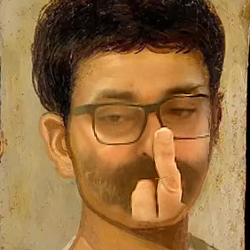
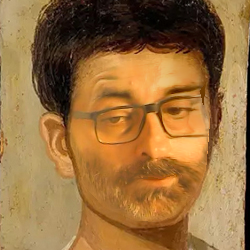
better cc shift

Changed region(s): [[0.28, 0.224, 0.868, 0.896], [0.308, 0.56, 0.336, 0.588]]

diff --git a/faceFit/FaceFit_kivy_overimpressed.py b/faceFit/FaceFit_kivy_overimpressed.py
@@ -24,7 +24,9 @@ from kivy.uix.behaviors import ToggleButtonBehavior
 from kivy.clock import Clock
 from kivy.graphics.texture import Texture
 from color_transfer import color_transfer
+import blend_modes
 
+from skimage import filters as filters, exposure
 Window.maximize()
 # Mediapipe
 mp_face_detection = mp.solutions.face_detection
@@ -685,187 +687,6 @@ def where_is_looking(img, f_landmarks, what):
     return [text, beta, alpha]
 
 
-# def txt_multiline(img, end_point, increment, txt, color):
-#     y_start = (end_point[1] - 25)
-#     y_increment = increment[1]
-#     for i, line in enumerate(txt.split('\n')):
-#         y = y_start + i * y_increment
-#         cv2.putText(img, line, ((end_point[0] + increment[0]), y), font, 1, color, 2)
-
-
-# def rotate_hud(origin, point, _angle):
-#     """
-#     Rotate a point counterclockwise by a given angle around a given origin.
-#     The angle should be given in radians.
-#     """
-#     ox, oy = origin
-#     px, py = point
-#
-#     qx = ox + np.cos(_angle) * (px - ox) - np.sin(_angle) * (py - oy)
-#     qy = oy + np.sin(_angle) * (px - ox) + np.cos(_angle) * (py - oy)
-#     return int(qx), int(qy)
-# def draw_hud(img, center_point, b_box, up_down, r_l, turn_z, ref_id):
-#     hud = np.zeros_like(img, np.uint8)
-#     j_arrow = [int(i * 1.3) for i in b_box]
-#     color = (0, 255, 0)
-#     thick = 10
-#     thick_tilt = 10
-#     x = center_point[0]
-#     y = center_point[1] - b_box[1]
-#     a = 25
-#     b = 35
-#     sector = 0
-#
-#     # BIG ARROW
-#     if r_l == 'right':
-#         if up_down == 'up':
-#             angle = 45
-#             sector = 1
-#         elif up_down == 'down':
-#             angle = 135
-#             sector = 2
-#         else:
-#             angle= 90
-#             sector = 2
-#     elif r_l == 'left':
-#         if up_down == 'up':
-#             angle = -45
-#             sector = 1
-#         elif up_down == 'down':
-#             angle = -135
-#             sector = 2
-#         else:
-#             angle = -90
-#             sector = 2
-#     else:
-#         if up_down == 'up':
-#             angle = 0
-#             sector = 1
-#         elif up_down == 'down':
-#             angle = 180
-#             sector = 2
-#         else:
-#             sector = 1
-#             angle = 0
-#             x = -200
-#             y = -300
-#     big_arrow = np.array([(x, y), (x - a, y), (x - a, y - b), (x - 2 * a, y - b), (x, y - 2 * b), (x + 2 * a, y - b),
-#                       (x + a, y - b), (x + a, y)], np.float32)
-#     arrow_rotated = big_arrow.copy()
-#
-#     for i, p in enumerate(big_arrow):
-#         arrow_rotated[i] = rotate_hud(center_point, p, np.deg2rad(angle))
-#
-#     cv2.polylines(hud, [np.int32(arrow_rotated)], True, color, thick)
-#
-#     # TILT
-#     if turn_z == 'right':
-#         if sector != 2:
-#             alpha = 100
-#             beta = 170
-#             tilt_p1 = [center_point[0] - j_arrow[0], center_point[1] + 10]
-#             tilt_p2 = [center_point[0] - j_arrow[0] - 10, center_point[1] + 25]
-#             tilt_p3 = [center_point[0] - j_arrow[0] + 15, center_point[1] + 20]
-#         else:
-#             alpha = 190
-#             beta = 260
-#             tilt_p1 = [center_point[0] - 5, center_point[1] - j_arrow[1]-1]
-#             tilt_p2 = [center_point[0] - 20, center_point[1] - j_arrow[1]-10]
-#             tilt_p3 = [center_point[0] - 15, center_point[1] - j_arrow[1]+15]
-#     elif turn_z == 'left':
-#         if sector != 2:
-#             alpha = 10
-#             beta = 80
-#             tilt_p1 = [center_point[0] + j_arrow[0], center_point[1] + 10]
-#             tilt_p2 = [center_point[0] + j_arrow[0] + 10, center_point[1] + 25]
-#             tilt_p3 = [center_point[0] + j_arrow[0] - 15, center_point[1] + 20]
-#         else:
-#             alpha = 280
-#             beta = 350
-#             tilt_p1 = [center_point[0] + 5, center_point[1] - j_arrow[1]-1]
-#             tilt_p2 = [center_point[0] + 20, center_point[1] - j_arrow[1]-10]
-#             tilt_p3 = [center_point[0] + 15, center_point[1] - j_arrow[1]+15]
-#     else:
-#         alpha = 0
-#         beta = 0
-#         tilt_p1 = [-300, -300]
-#         tilt_p2 = [-300, -300]
-#         tilt_p3 = [-300, -300]
-#         thick_tilt = 0
-#     cv2.ellipse(hud, center_point, j_arrow, 0, alpha, beta, color, thick_tilt)
-#     pts0 = np.array([tilt_p1, tilt_p2, tilt_p3], np.int32)
-#     pts0 = pts0.reshape((-1, 1, 2))
-#     cv2.polylines(hud, [pts0], True, color, thick_tilt)
-#
-#     # L Eye
-#
-#     if ref[ref_id].status['l_e'] != cam_obj.status['l_e']:
-#         l_e_start = cam_obj.centers['l_e']
-#         l_e_end = (cam_obj.centers['l_e'][0] + j_arrow[0]//2, cam_obj.centers['l_e'][1] - j_arrow[1])
-#         txt_l = "check\nleft\neye"
-#     else:
-#         l_e_start = (-300, -300)
-#         l_e_end = (-300, -300)
-#         txt_l = ""
-#     cv2.line(hud, l_e_start, l_e_end, color, 2)
-#     txt_multiline(hud, l_e_end, [5, 25], txt_l, color)
-#
-#     # R Eye
-#     if ref[ref_id].status['r_e'] != cam_obj.status['r_e']:
-#         r_e_start = cam_obj.centers['r_e']
-#         r_e_end = (cam_obj.centers['r_e'][0] - j_arrow[0]//2, cam_obj.centers['r_e'][1] - j_arrow[1])
-#         txt_r = "check\n right\n  eye"
-#     else:
-#         r_e_start = (-300, -300)
-#         r_e_end = (-300, -300)
-#         txt_r = ""
-#     cv2.line(hud, r_e_start, r_e_end, color, 2)
-#     txt_multiline(hud, r_e_end, [-95, 25], txt_r, color)
-#
-#     # Mouth
-#     if ref[ref_id].status['lips'] != cam_obj.status['lips']:
-#         mouth_start = cam_obj.centers['lips']
-#         mouth_end = (cam_obj.centers['lips'][0] - 100), (cam_obj.centers['lips'][1] + 125)
-#         txt_mouth = "check mouth"
-#     else:
-#         mouth_start = (-300, -300)
-#         mouth_end = (-300, -300)
-#         txt_mouth = ""
-#     cv2.line(hud, mouth_start, mouth_end, color, 2)
-#     cv2.putText(hud, txt_mouth, ((mouth_end[0] - 100), (mouth_end[1] + 20)), font, 1, color, 2)
-#     d = 20
-#     # ref[selected].image = cv2.cvtColor(ref[selected].image, cv2.COLOR_BGR2RGB)
-#     temp_ref = ref[selected].image.copy()
-#     rx = (cam_obj.delta_x + 2 * d) / (ref[selected].delta_x + 2 * d)
-#     ry = (cam_obj.delta_y + 2 * d) / (ref[selected].delta_y + 2 * d)
-#     media_scale = round((rx + ry) / 2, 2)
-#     r_min_x, r_min_y = ref[selected].bb_p1
-#     r_max_x, r_max_y = ref[selected].bb_p2
-#     center_ref = ref[selected].pix_points[168]
-#     center_cam = cam_obj.pix_points[168]
-#     delta_r_min = [r_min_x - d, r_min_y - d]
-#     delta_r_max = [r_max_x + d, r_max_y + d]
-#     cropped_ref = temp_ref[delta_r_min[1]:delta_r_max[1], delta_r_min[0]:delta_r_max[0]]
-#     print(center_cam, center_ref, delta_r_min, delta_r_max)
-#     print(r_max_y-r_min_y+2*d, r_max_x-r_min_x+2*d, 'picture')
-#     # print('rx', rx, 'ry', ry, 'media', media_scale)
-#     new_min_x = center_cam[0] - int((center_ref[0] - delta_r_min[0]) )
-#     new_min_y = center_cam[1] - int((center_ref[1] - delta_r_min[1]) )
-#     new_max_x = center_cam[0] - int((center_ref[0] - delta_r_max[0]) )
-#     new_max_y = center_cam[1] - int((center_ref[1] - delta_r_max[1]) )
-#     print(new_min_x, new_max_x, new_min_y, new_max_y )
-#     print(selected)
-#     temp_cam = img.copy()
-#     # print(exp_bb_reference.shape, exp_bb_cam.shape, img.shape)
-#     print(temp_cam[new_min_y:new_max_y, new_min_x:new_max_x].shape, cropped_ref.shape)
-#     temp_cam[new_min_y:new_max_y, new_min_x:new_max_x] = \
-#         cv2.addWeighted(temp_cam[new_min_y:new_max_y, new_min_x:new_max_x], 1, cropped_ref, .9, 1)
-#     mask = hud.astype(bool)
-#     # print(new_max_x - new_min_x, new_max_y - new_min_y, cropped_ref.shape)
-#     out_image = temp_cam.copy()
-#     # out_image = cv2.addWeighted(img, 1, exp_bb_cam, 0.7, 1)
-#     out_image[mask] = cv2.addWeighted(img, 1, hud, 0.9, 1)[mask]
-#     return out_image
 
 
 # def draw(part, img, face_l):
@@ -911,9 +732,6 @@ def hud_mask(mask_obj, masked_obj):
 
     mask = np.zeros(masked_obj.image.shape, dtype=masked_obj.image.dtype)
     cv2.fillConvexPoly(mask, np.int32(hull8U), (255, 255, 255))
-    # print('qua')
-    # cv2.imshow('',mask)
-    # cv2.waitKey(1)
     return mask
 
 
@@ -964,15 +782,8 @@ def cut_paste(obj1, obj2):
     cropped_2 = masked_2[delta_2_min[1]:delta_2_max[1], delta_2_min[0]:delta_2_max[0]]
 
     cropped_2 = cv2.resize(cropped_2,((new_max_x - new_min_x),(new_max_y - new_min_y)),interpolation=cv2.INTER_LINEAR)
-    blurred_2 = cv2.GaussianBlur(cropped_2, (3,3), sigmaX=0, sigmaY=0)
-    # Sobel Edge Detection
-    print(blurred_2.shape, blurred_2.dtype, cropped_2.shape, cropped_2.dtype)
-    sobel_x = cv2.Sobel(src=blurred_2, ddepth=cv2.CV_64F, dx=1, dy=0, ksize=3)  # Sobel Edge Detection on the X axis
-    sobel_y = cv2.Sobel(src=blurred_2, ddepth=cv2.CV_64F, dx=0, dy=1, ksize=3)  # Sobel Edge Detection on the Y axis
-    # sobelxy = cv2.Sobel(src=blurred_2, ddepth=cv2.CV_64F, dx=1, dy=1, ksize=5)  # Combined X and Y Sobel Edge Detection
-    abs_grad_x = cv2.convertScaleAbs(sobel_x)
-    abs_grad_y = cv2.convertScaleAbs(sobel_y)
-    edged_2 = cv2.addWeighted(abs_grad_x, 0.5, abs_grad_y, 0.5, 0)
+
+    edged_2 = find_edges(cropped_2, 3, 1, 1, 3)
 
     copied = temp_1[new_min_y:new_max_y, new_min_x:new_max_x]
     copied = cv2.addWeighted(copied, 1, edged_2, .99, 1)
@@ -984,17 +795,24 @@ def morph(c_obj, r_obj):
     source = ref[selected].image
     target = cam_obj.image
 
-    # transfer the color distribution from the source image to the target image
-    color_transfer(source, target, clip=False, preserve_paper=False)
-
     img1_warped = np.copy(r_obj.image)
     img1_points = c_obj.pix_points
     img2_points = r_obj.pix_points
-    convexhull2 = cv2.convexHull(np.array(img2_points))
+
     mask = hud_mask(c_obj, r_obj)
     # Find Centroid
     mid = cv2.moments(mask[:, :, 1])
     center = (int(mid['m10']/mid['m00']), int(mid['m01']/mid['m00']))
+
+    cc_image = cv2.cvtColor(color_correct(target, source), cv2.COLOR_BGRA2BGR)
+
+    cv2.imshow('match3', cc_image)
+    print(cc_image.shape, cc_image.dtype)
+    c_obj.image[c_obj.bb_p1[1]:c_obj.bb_p2[1], c_obj.bb_p1[0]:c_obj.bb_p2[0]] = cc_image
+    cv2.imshow('match4', c_obj.image)
+    # # find edges
+    # edged = find_edges(c_obj.image, 3, 1, 1, 3)
+    # c_obj.image = cv2.addWeighted(c_obj.image, 1, edged, 0.5, 0)
 
     # triangles
     dt = media_pipes_tris
@@ -1003,7 +821,9 @@ def morph(c_obj, r_obj):
     img2_new_face = np.zeros((height, width, channels), np.uint8)
     convexhull1 = cv2.convexHull(np.array(img1_points))
     cv2.fillConvexPoly(mask, convexhull1, 255)
+    convexhull2 = cv2.convexHull(np.array(img2_points))
     # If no Delaunay Triangles were found, quit
+
     if len(dt) == 0:
         quit()
 
@@ -1022,10 +842,18 @@ def morph(c_obj, r_obj):
         warp_triangle(c_obj.image, img2_new_face, tris1[i], tris2[i])
 
     # Clone seamlessly.
-    # kernel = np.array([[0, -1, 0],
-    #                    [-1, 5, -1],
-    #                    [0, -1, 0]])
+    # find edges
+    # edged = find_edges(img2_new_face, 3, 1, 1, 3)
+
+    # # add_sharpness
+    # kernel = np.array([[-1, -1, -1],
+    #                    [-1, 9, -1],
+    #                    [-1, -1, -1]])
     # img2_sharp = cv2.filter2D(src=img2_new_face, ddepth=-1, kernel=kernel)
+    # img2_new_face = cv2.addWeighted(img2_new_face, 1, img2_sharp, 0.1, 1)
+    # cv2.imshow('0', edged)
+    # cv2.imshow('1', img2_sharp)
+    # cv2.waitKey(0)
     gray = cv2.cvtColor(r_obj.image, cv2.COLOR_BGR2GRAY)
     img2_face_mask = np.zeros_like(gray)
 
@@ -1048,6 +876,70 @@ def extract_index_nparray(nparray):
         index = num
         break
     return index
+
+
+def find_edges(img, blur_size, dx , dy, ksize):
+    blurred = cv2.GaussianBlur(img, (blur_size, blur_size), sigmaX=0, sigmaY=0)
+    grayed = cv2.cvtColor(blurred, cv2.COLOR_BGR2GRAY)
+    # Laspacian Edge Detection
+    laplacian = cv2.Laplacian(grayed, cv2.CV_64F)
+    abs_laplacian = cv2.convertScaleAbs(laplacian)
+    # Sobel Edge Detection
+    sobel_x = cv2.Sobel(src=grayed, ddepth=cv2.CV_64F, dx=dx, dy=0, ksize=ksize)  # Sobel Edge Detection on the X axis
+    sobel_y = cv2.Sobel(src=grayed, ddepth=cv2.CV_64F, dx=0, dy=dy, ksize=ksize)  # Sobel Edge Detection on the Y axis
+    # sobelxy = cv2.Sobel(src=blurred_2, ddepth=cv2.CV_64F, dx=1, dy=1, ksize=5)  # Combined X and Y Sobel Edge Detection
+    abs_grad_x = cv2.convertScaleAbs(sobel_x)
+    abs_grad_y = cv2.convertScaleAbs(sobel_y)
+
+    edged = cv2.addWeighted(abs_grad_x, 0.5, abs_grad_y, 0.5, 0)
+    edged = cv2.addWeighted(edged, 1, abs_laplacian, 0.5, 1)
+    edged = cv2.cvtColor(edged, cv2.COLOR_GRAY2BGR)
+    return edged
+
+def sharpen(img):
+    # convert to gray
+    gray = cv2.cvtColor(img, cv2.COLOR_BGR2GRAY)
+
+    # blur
+    smooth = cv2.GaussianBlur(gray, (99, 99), 0)
+
+    # divide gray by morphology image
+    division = cv2.divide(gray, smooth, scale=255)
+
+    # sharpen using unsharp masking
+    sharp = filters.unsharp_mask(division, radius=2, amount=15, multichannel=False, preserve_range=False)
+    sharp = (255 * sharp).clip(0, 255).astype(np.uint8)
+
+    # threshold
+    thresh = cv2.threshold(sharp, 0, 255, cv2.THRESH_BINARY + cv2.THRESH_OTSU)[1]
+
+    return sharp
+
+
+def color_correct(cam_img, ref_img):
+    roi1 = cam_img[cam_obj.bb_p1[1]:cam_obj.bb_p2[1], cam_obj.bb_p1[0]:cam_obj.bb_p2[0]]
+    roi2 = ref_img[ref[selected].bb_p1[1]:ref[selected].bb_p2[1], ref[selected].bb_p1[0]:ref[selected].bb_p2[0]]
+    sharp = sharpen(cam_obj.image)
+    sharp_roi1 = sharp[cam_obj.bb_p1[1]:cam_obj.bb_p2[1], cam_obj.bb_p1[0]:cam_obj.bb_p2[0]]
+    sharp_roi1 = cv2.GaussianBlur(sharp_roi1, (9, 9), 0)
+    cv2.imshow('sharpen', sharp)
+
+    # transfer the color distribution from the source image to the target image
+    roi1 = color_transfer(roi2, roi1, clip=True, preserve_paper=False)
+
+    b_channel, g_channel, r_channel = cv2.split(roi1)
+    alpha_channel = np.ones(b_channel.shape, dtype=b_channel.dtype)  # creating a dummy alpha channel image.
+    roi1_4ch = cv2.merge((b_channel, g_channel, r_channel, alpha_channel))
+    sharp_channel, = cv2.split(sharp_roi1)
+    sharp_roi_4ch = cv2.merge((sharp_channel, sharp_channel, sharp_channel, alpha_channel))
+    info_roi1 = np.iinfo(roi1_4ch.dtype)
+    info_sharp = np.iinfo(sharp_roi_4ch.dtype)
+    roi1_norm_float = roi1_4ch.astype(np.float64) / info_roi1.max
+    sharp_norm_float = sharp_roi_4ch.astype(np.float64) / info_sharp.max
+    blended = blend_modes.darken_only(roi1_norm_float, sharp_norm_float, .5)
+    out = (blended * 255).astype('uint8')
+    return out
+
 
 
 for filename in glob.iglob(f'{ref_path}*'):

diff --git a/faceFit/color_transfer.py b/faceFit/color_transfer.py
@@ -76,7 +76,6 @@ def color_transfer(source, target, clip=True, preserve_paper=True):
     # type
     transfer = cv2.merge([l, a, b])
     transfer = cv2.cvtColor(transfer.astype("uint8"), cv2.COLOR_LAB2BGR)
-
     # return the color transferred image
     return transfer
 
